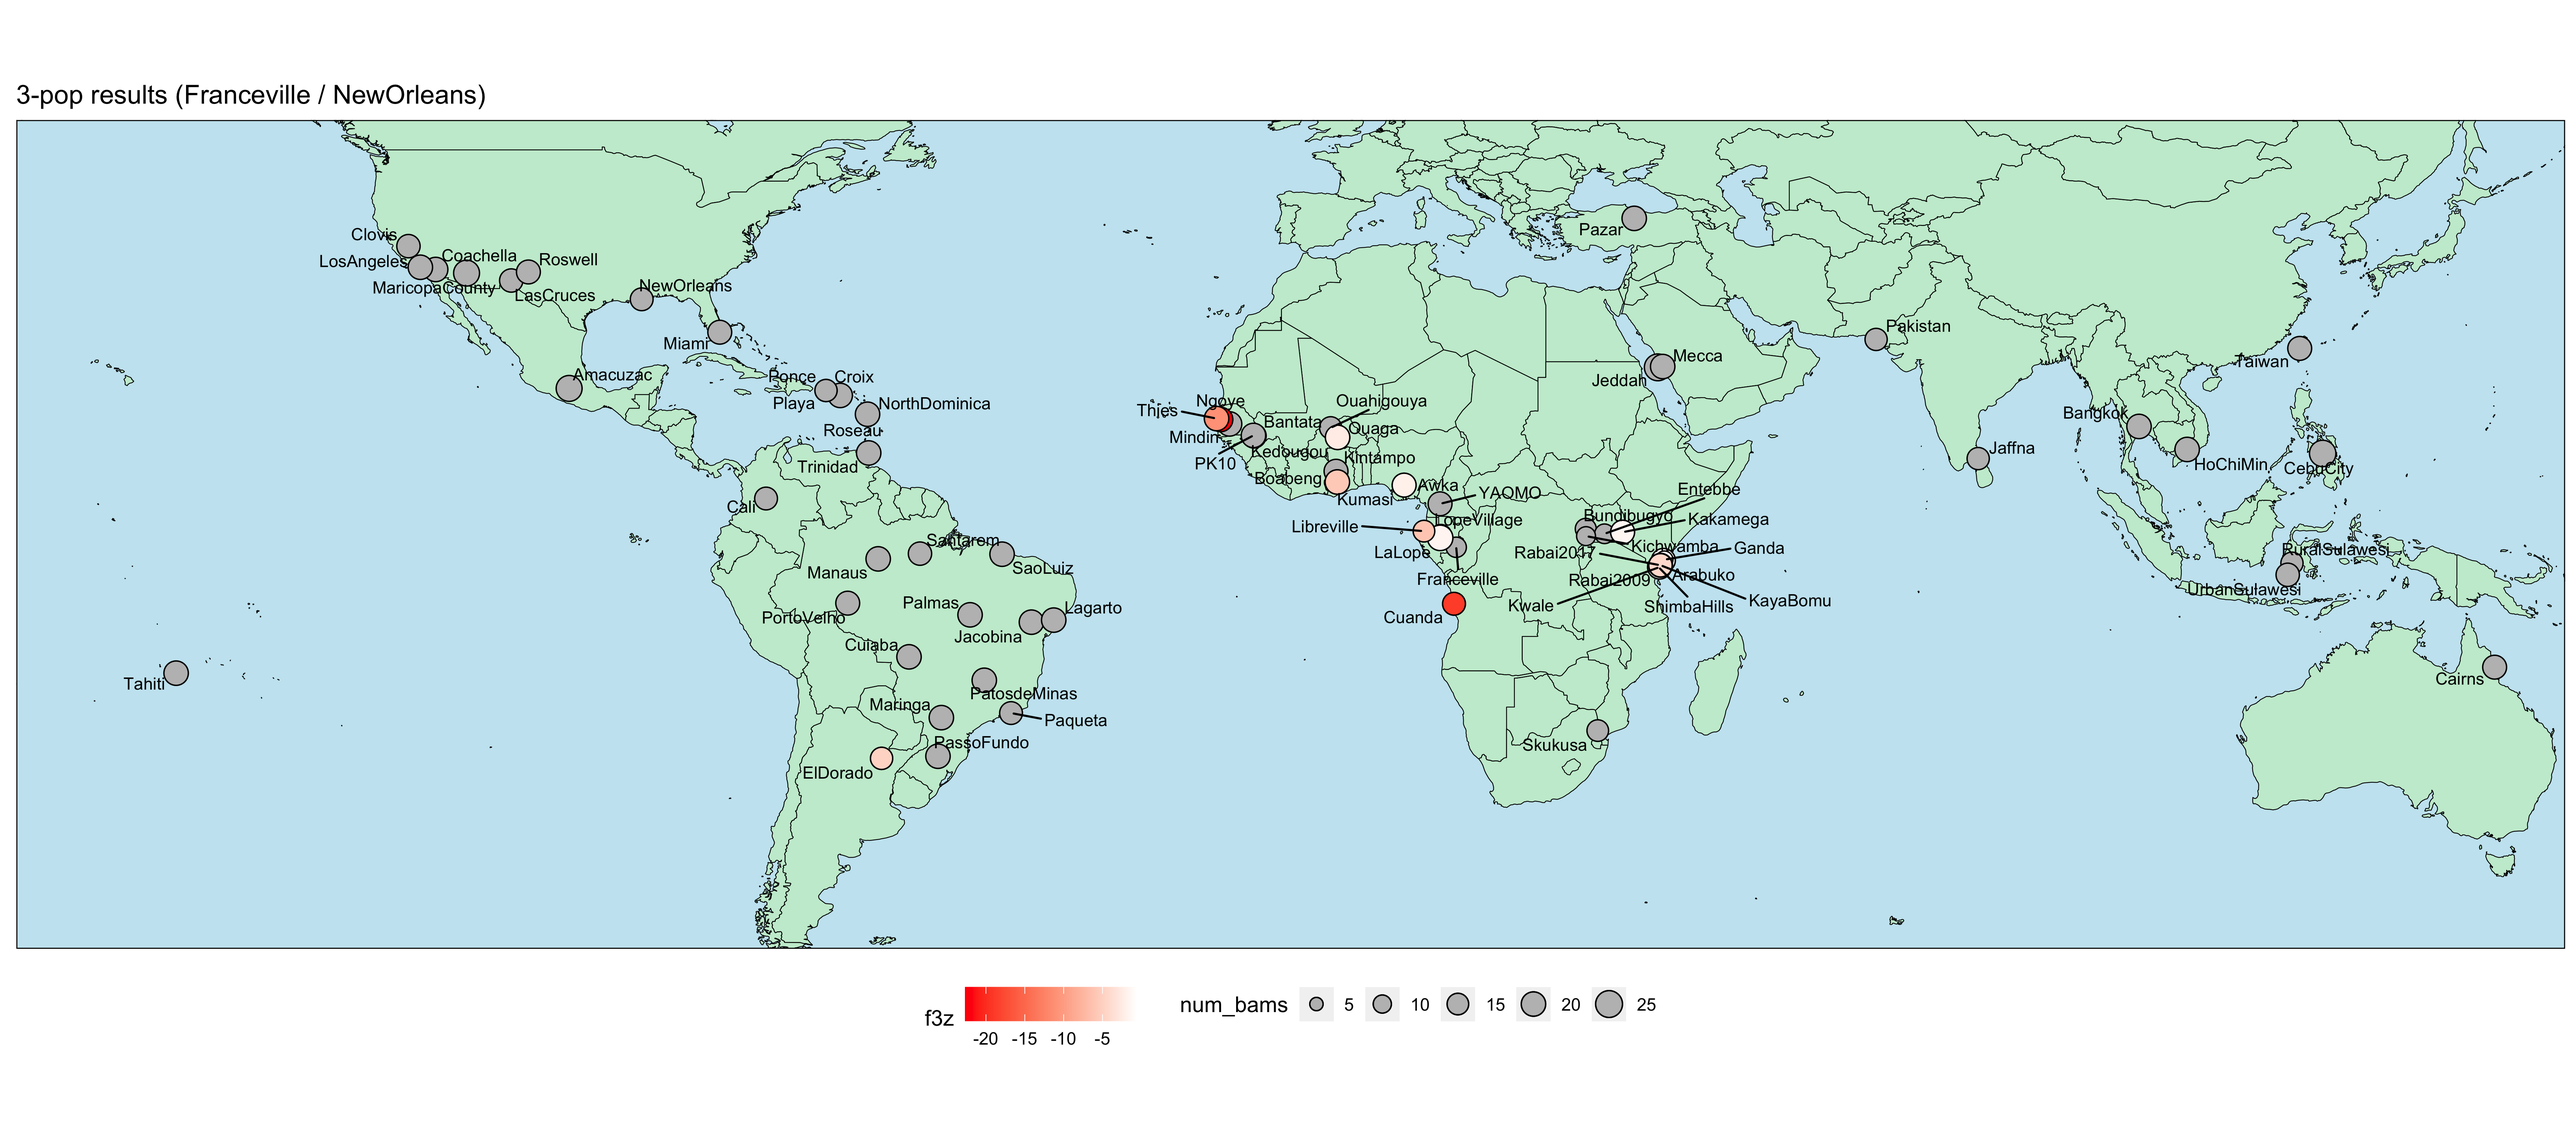
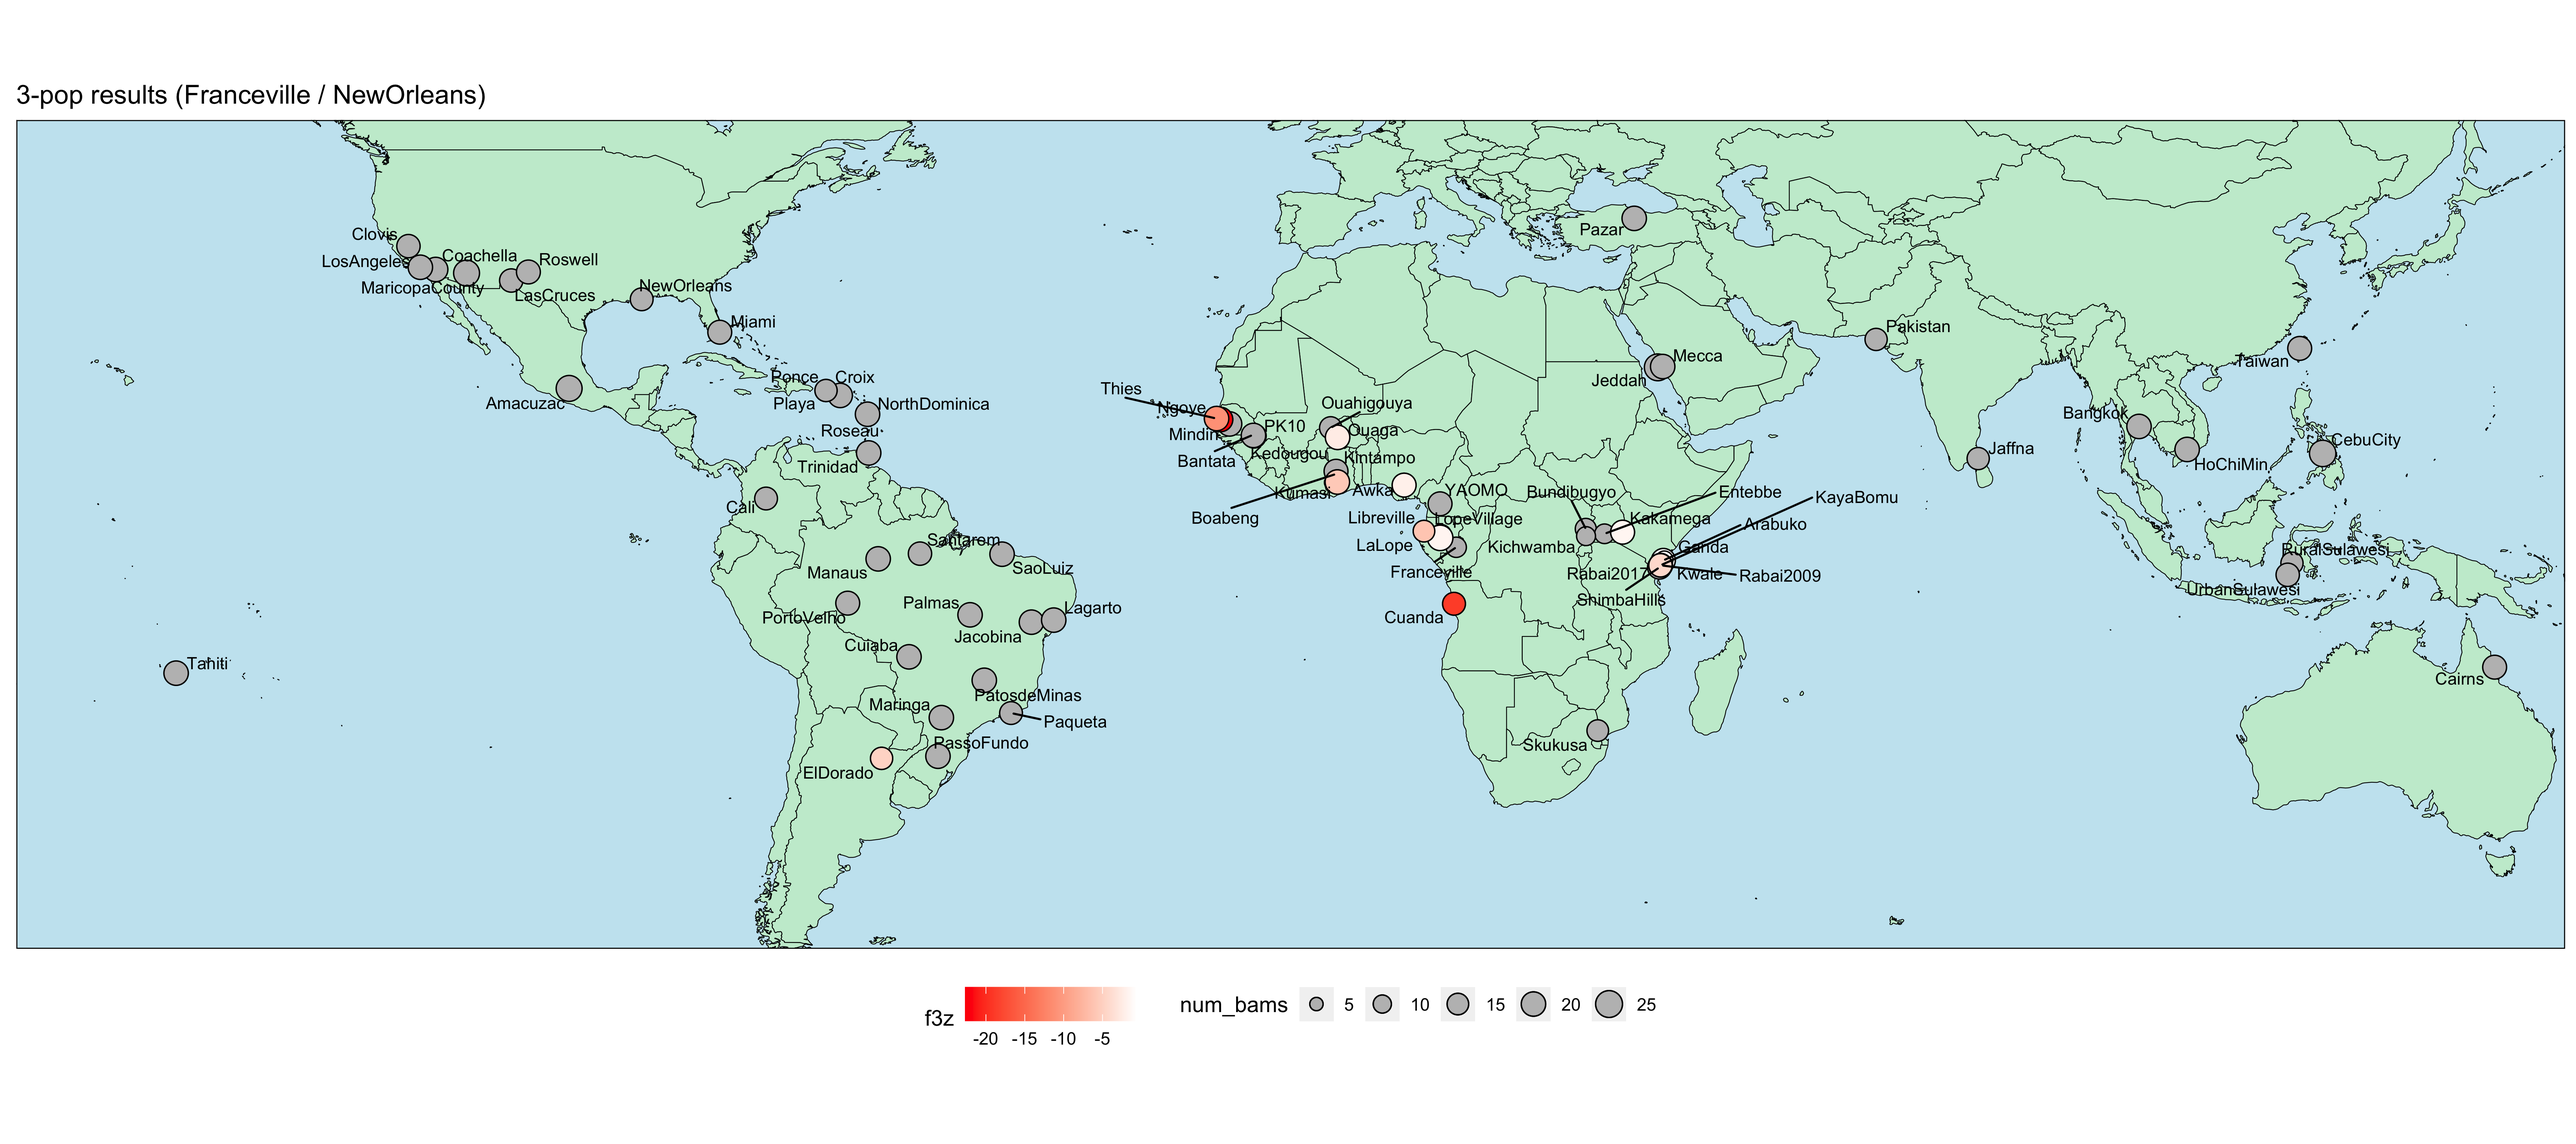
fixing LD pops

diff --git a/reports/230622_admix_pops_repel/admixture_repel.md b/reports/230622_admix_pops_repel/admixture_repel.md
@@ -106,6 +106,7 @@ pop3sumAll <- read.table("admix_tests/3pop_123_summaries.txt",col.names=c("p3","
 pop3sumAll$set <- paste(pop3sumAll$p3,pop3sumAll$p1,pop3sumAll$p2,sep="/")
 pop3sumAll$parent <- paste(pop3sumAll$p1,pop3sumAll$p2,sep="/")
 f3lim=-0.258
+f3lim=-0.3
 pop3sumAll$f3sig <- pop3sumAll$f3z < f3lim
 
 pop3sumAll$f3sig[pop3sumAll$p3==pop3sumAll$p2 | pop3sumAll$p3==pop3sumAll$p1] <- F
@@ -121,10 +122,18 @@ parentlevels <- c("Franceville/NewOrleans","Franceville/HoChiMin",
                   "Franceville/ElDorado","Kedougou/ElDorado","ElDorado/NewOrleans" )
 pop3sumAll$parent <- factor(pop3sumAll$parent,levels=parentlevels)
 
-ggplot(pop3sumAll,aes(x=parent,y=p3,fill=f3z,color=f3sig)) + 
+regionorder <- rev(c("East Africa","West Africa",
+                 "Caribbean","South America","North America",
+                 "Middle East","Asia","Pacific"))
+pop3sumAll$region <- factor(pop3sumAll$region,levels=regionorder)
+
+ggplot(pop3sumAll,aes(x=parent,y=p3,fill=f3z)) + 
          geom_tile() + 
+         geom_point(data=subset(pop3sumAll,f3sig),shape=4)+
          scale_fill_gradient2(low="red",mid="white",high="white",midpoint = 0,na.value="grey") +
-         scale_color_manual(values=c("grey","black")) +
+         #scale_color_manual(values=c("grey","black")) +
+         scale_x_discrete(expand = c(0, 0)) +
+         facet_grid("region ~ .",scales="free",space="free") +
          theme(axis.text.x=element_text(angle=45,hjust=1))
 ```
 
